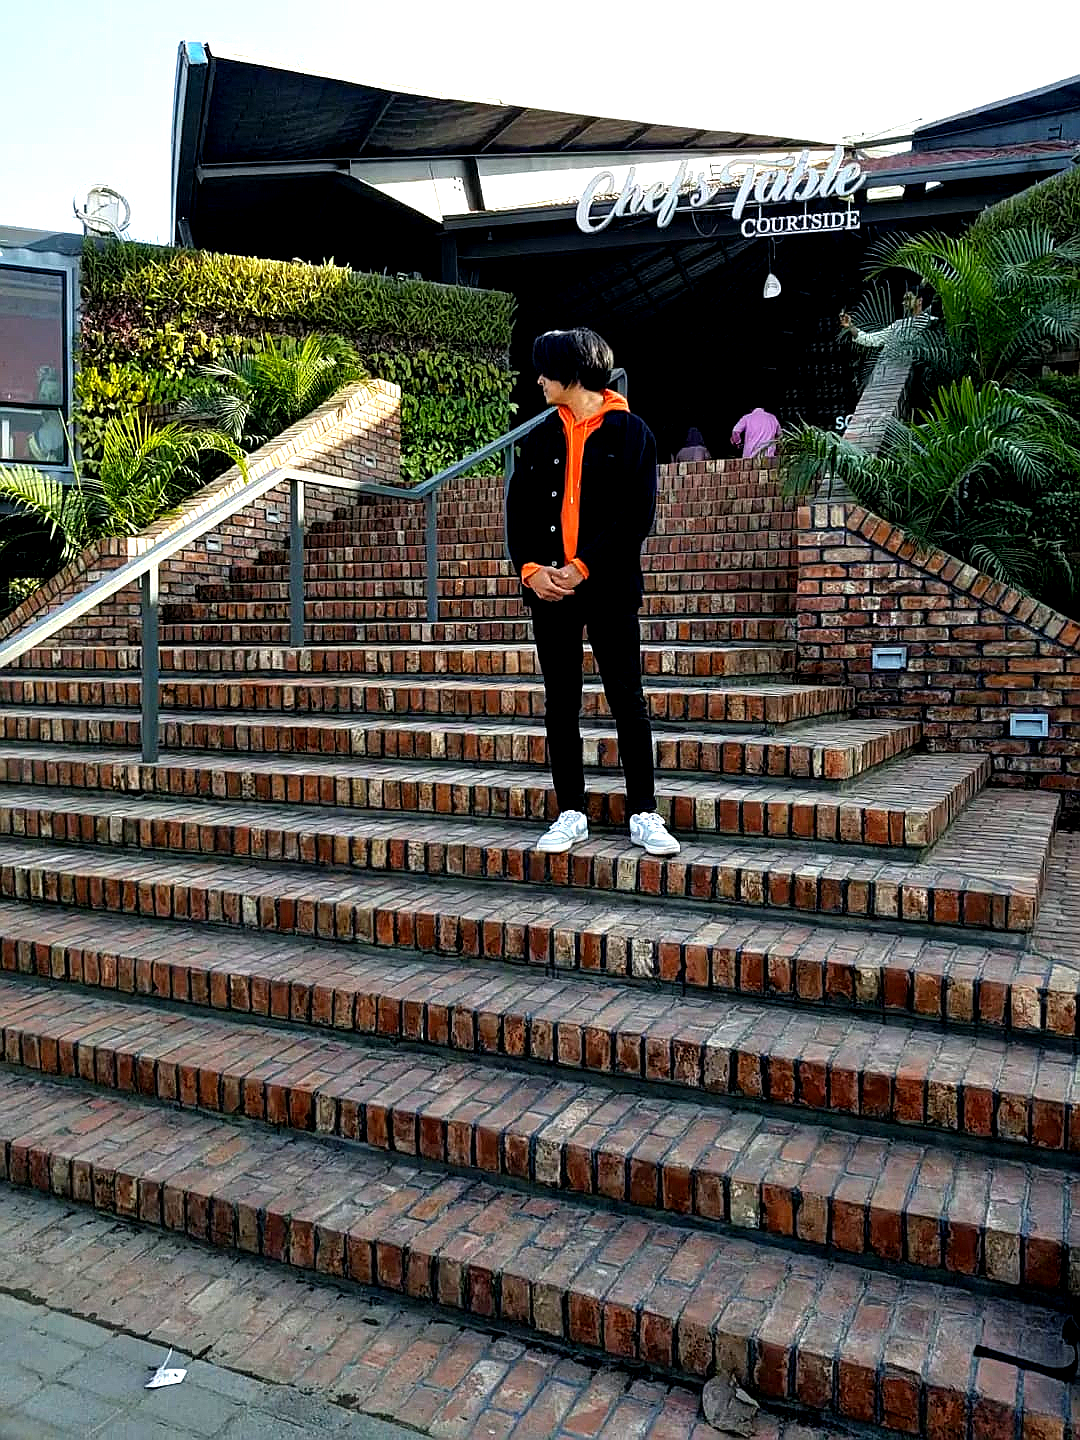
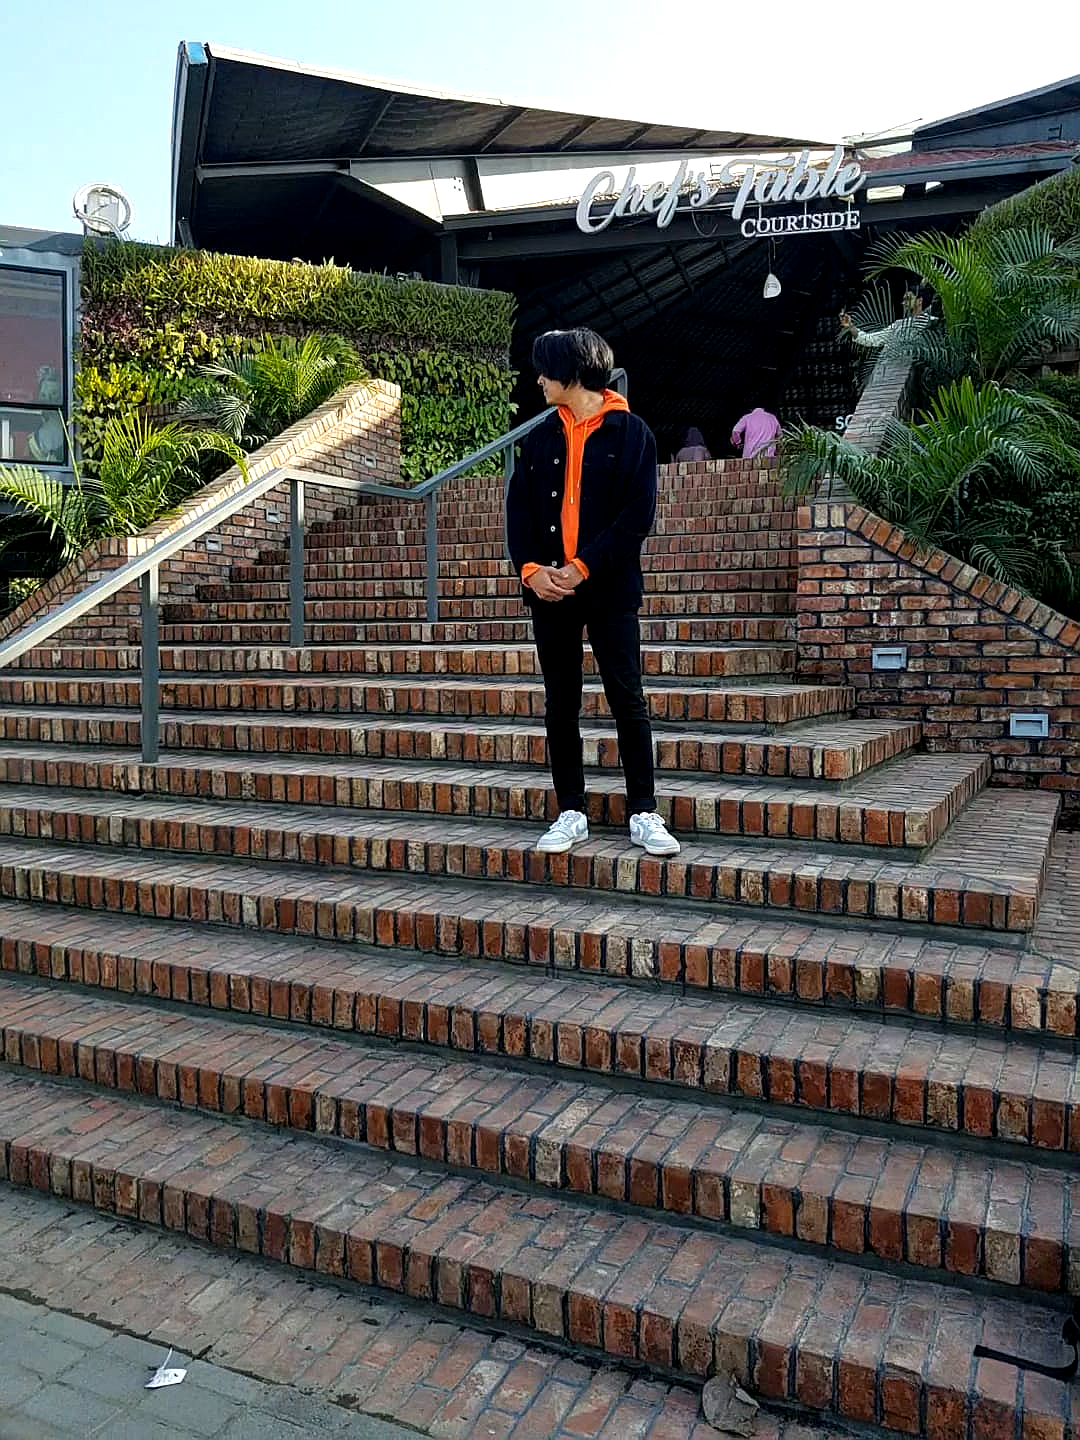
Enhance

diff --git a/main.py b/main.py
@@ -8,7 +8,7 @@ for filename in os.listdir(path):
     img = Image.open(f"{path}/{filename}")
     edit = img.filter(ImageFilter.SHARPEN)
 
-    fact = 1.5
+    fact = 1.2
     enhancer = ImageEnhance.Contrast(edit)
     edit = enhancer.enhance(fact)
     clean_name = os.path.splitext(filename)[0]
